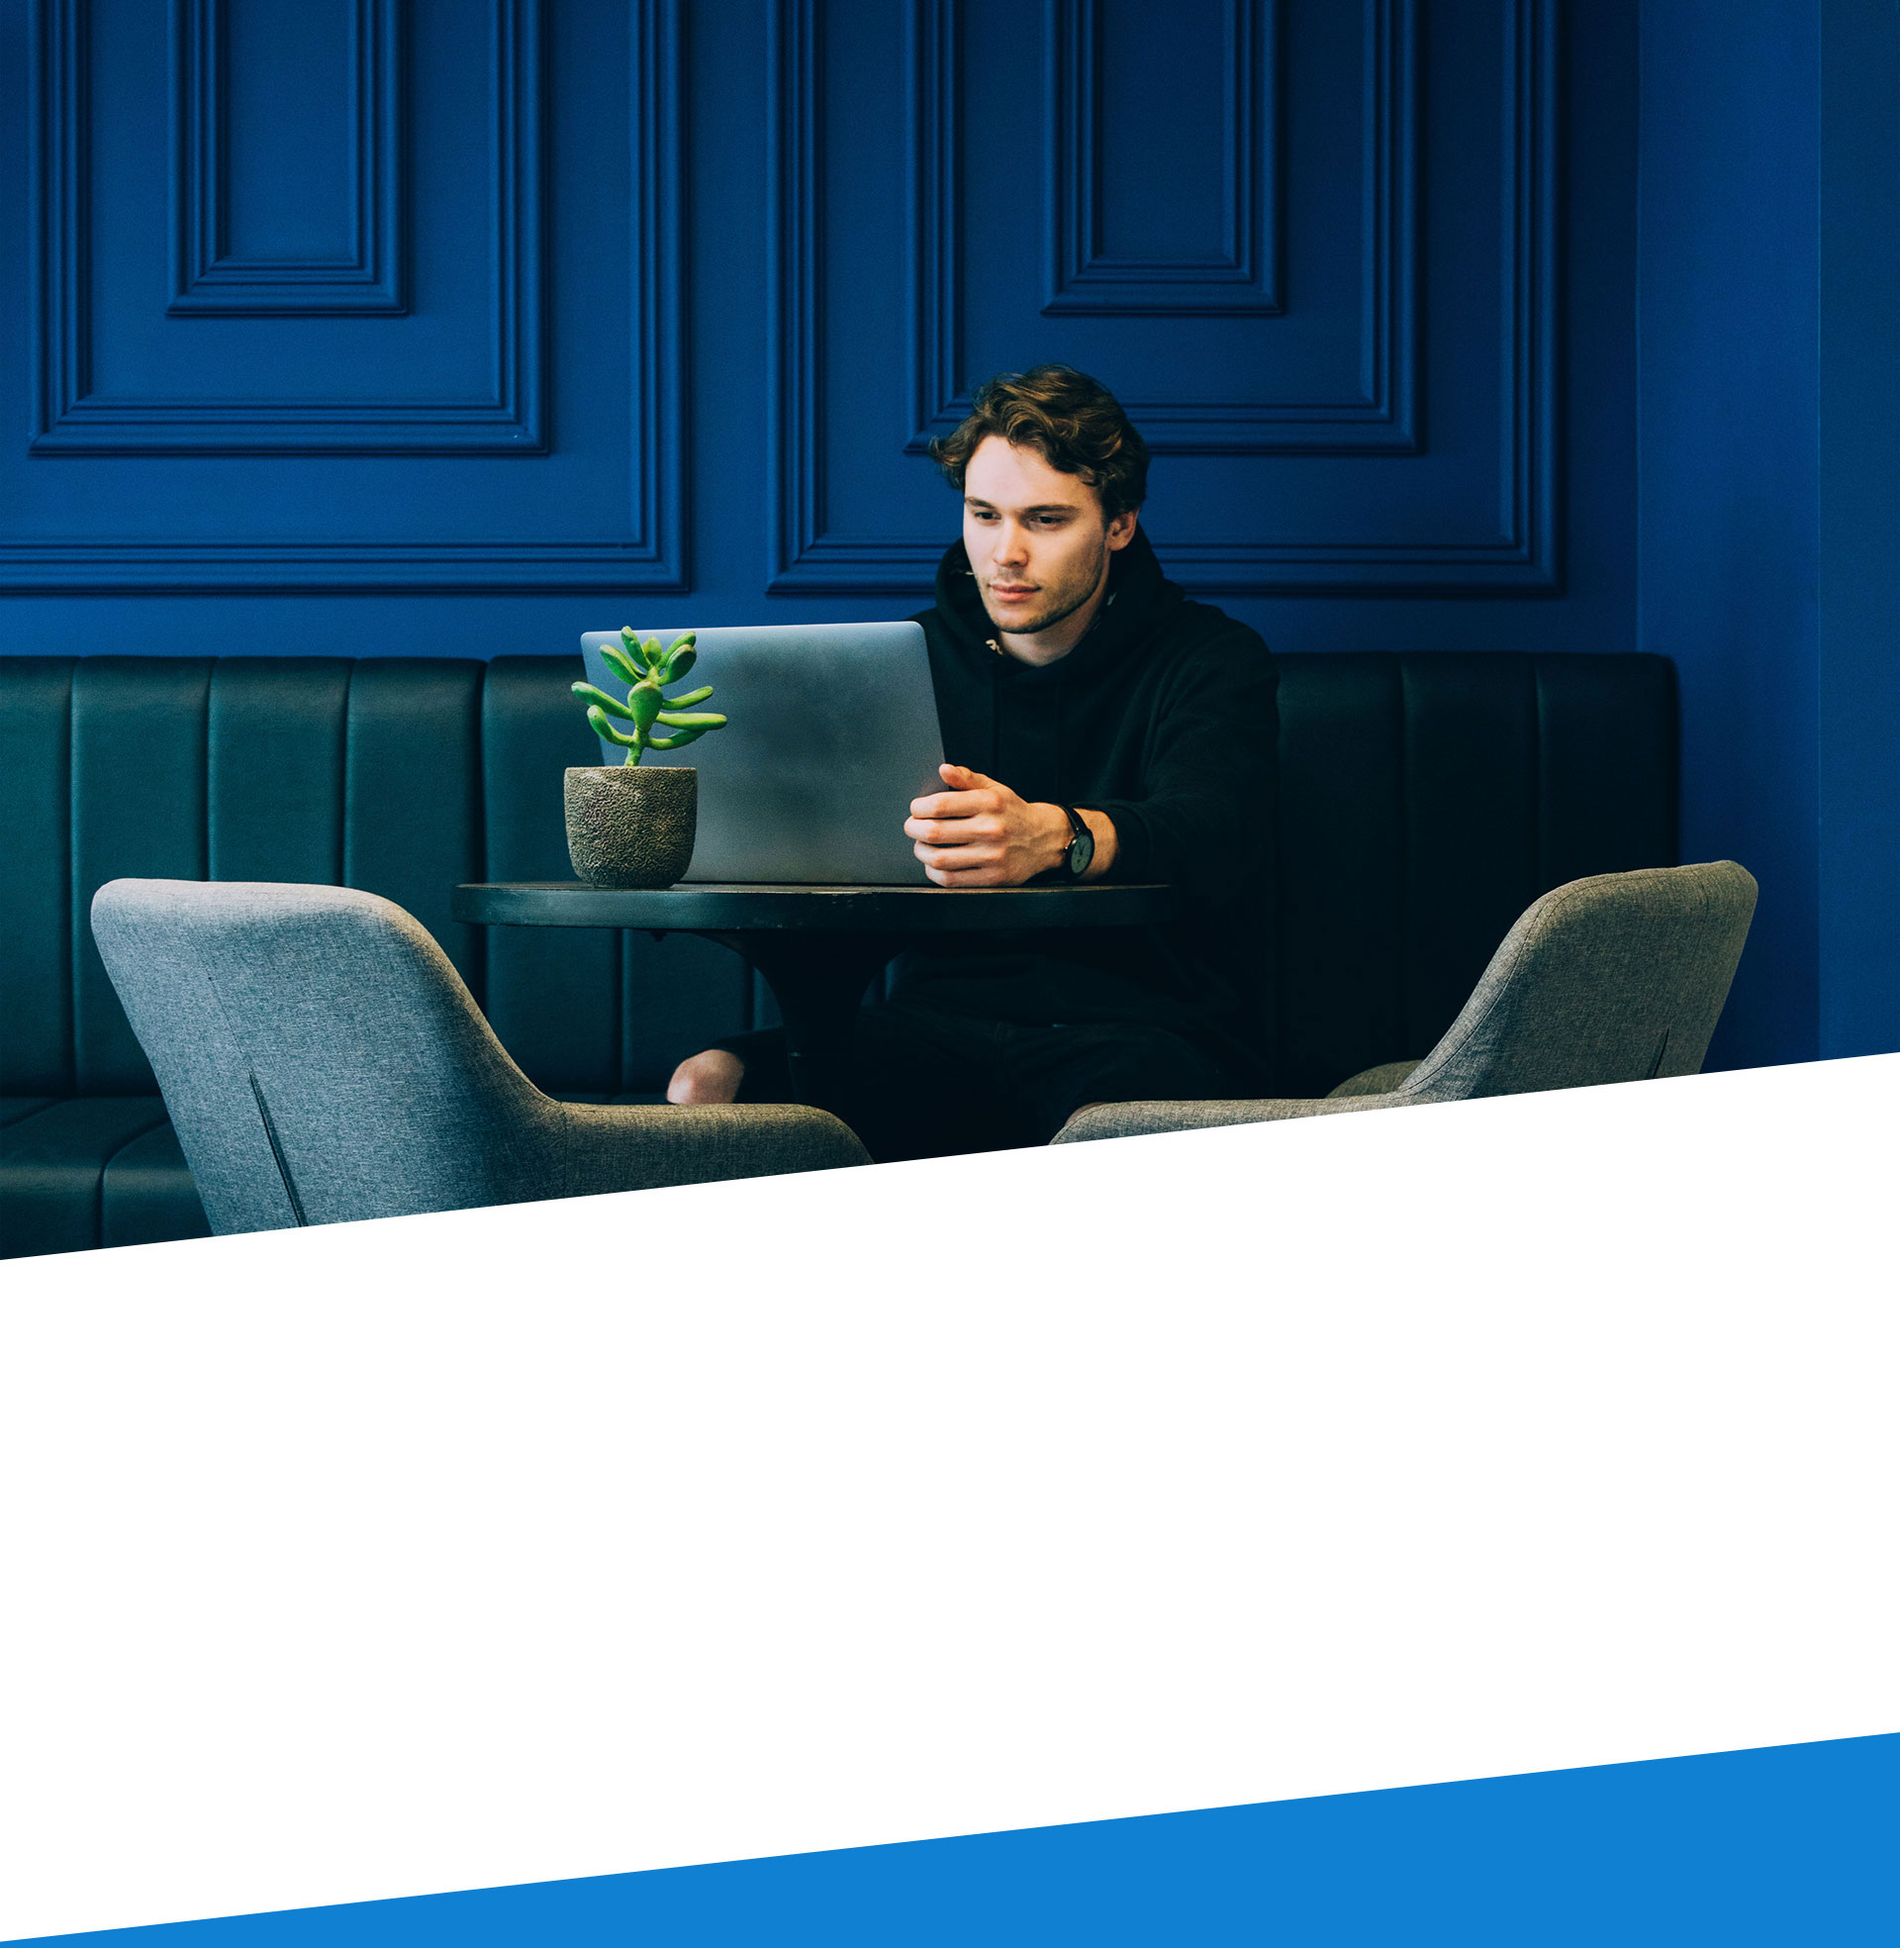
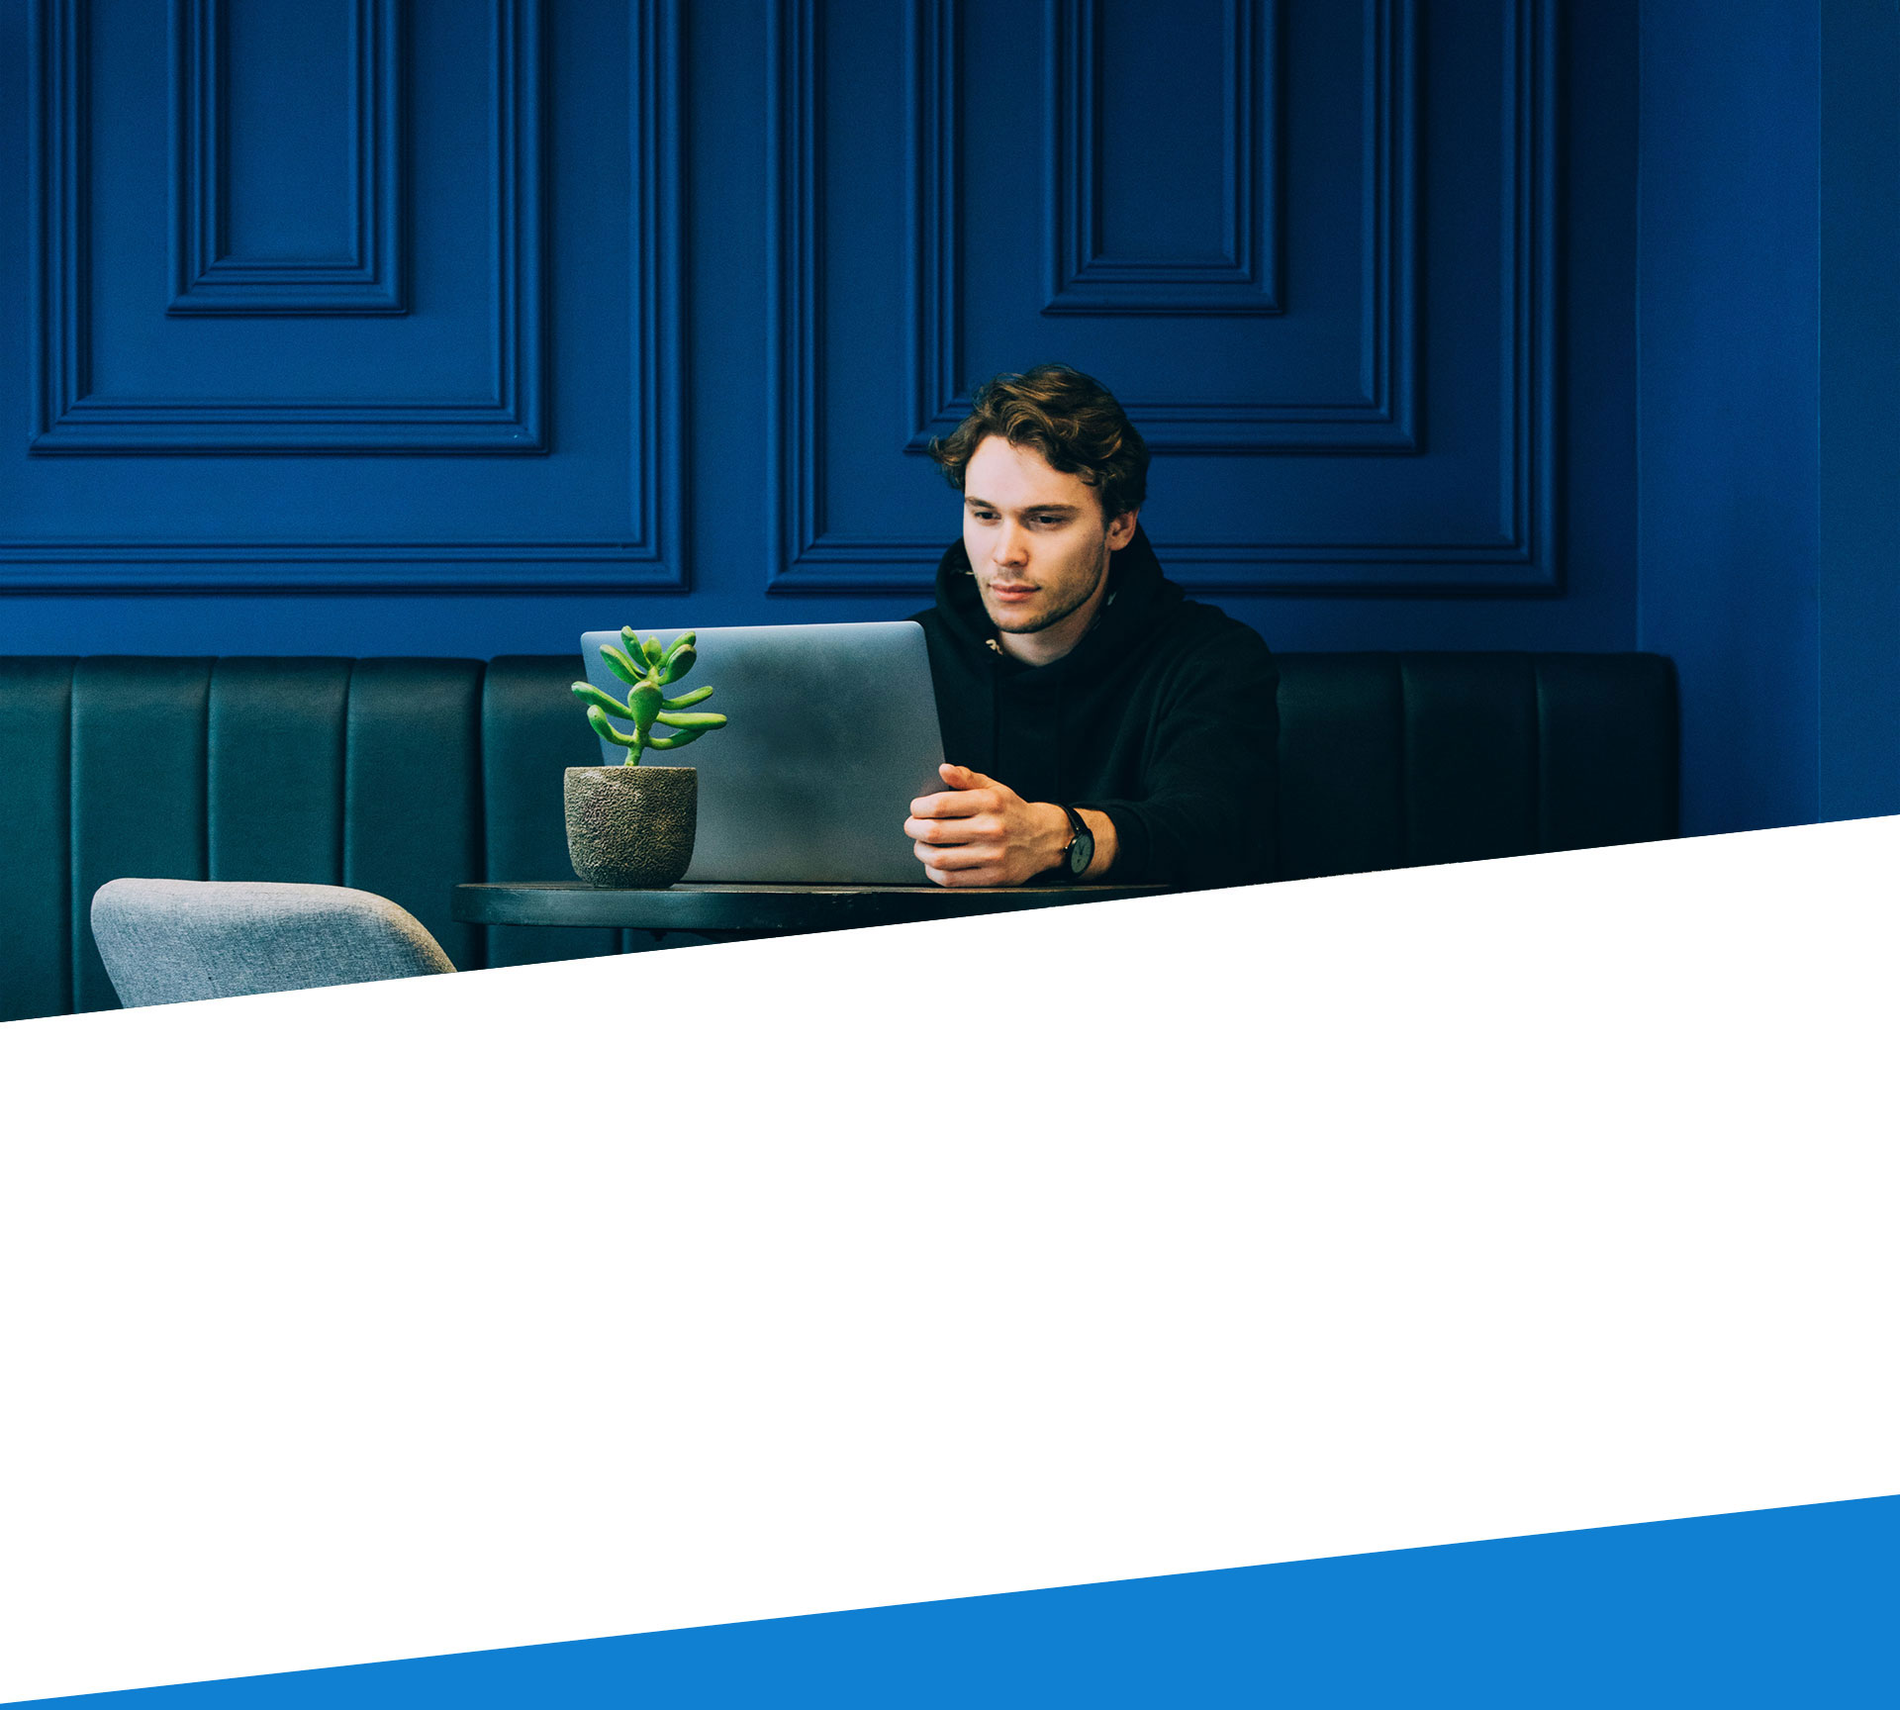
top ed

Changed region(s): [[0.0, 0.125, 1.0, 0.6562], [0.25, 0.875, 1.0, 0.9688], [0.125, 0.9688, 0.25, 1.0]]

diff --git a/xgwl/css/hqs.css b/xgwl/css/hqs.css
@@ -1,6 +1,6 @@
-/*å¹¿å‘Šéƒ¨ä»½*/
-.toped{background-image:url("../img/hqs/bg1.jpg");padding:0 0 100px 0;height:2222px;background-size:cover;background-position:center;color:#000;}
-.edinfo{color:#fff;text-align:center;font-size:20px;padding-top:220px;line-height:180%;}
+/*toped*/
+.toped{background-image:url("../img/hqs/bg1.jpg");padding:0 0 100px 0;height:1700px;background-size:cover;background-position:center;color:#000;}
+.edinfo{color:#fff;text-align:center;font-size:20px;padding-top: 220px;line-height:180%;}
 .edinfo .atit{font-size:30px;color:#fff;text-align:center;display:block;margin-bottom:40px;}
 .edinfo .btit{font-size:60px;color:#fff;text-align:center;display:block;margin-bottom:55px;}
 .edinfo .ctit{font-size:30px;color:#fff;text-align:center;padding:5px 12px;border-radius:30px;margin-top:25px;margin-bottom:20px;background-color:rgba(255,255,255,0.3);}
@@ -11,8 +11,8 @@
 .part1{padding:0 0 100px 0;background-color:#fff;}
 .part1 a{color:#333;line-height:25px;text-align:center;margin-top:100px;}
 .part1 a:hover{color:#39a1ff;}
-.toped .p1-1{margin-top:50px;position:relative;}
-.toped .p1-1 img{position:absolute;top:150px;left:50%;width:90%;margin-left:-45%;}
+.toped .p1-1{margin-top: -150px;position:relative;}
+.toped .p1-1 img{position:absolute;top: 0px;left:50%;width:90%;margin-left:-45%;}
 
 .edbutton{text-align:center;padding-top: 210px;padding-bottom:200px;}
 
@@ -66,12 +66,15 @@
 .part8 .text{position:absolute;right:0;text-align:right;bottom:0px;}
 @media (max-width:768px){
     /*body{padding-top:70px;}*/
-    .edinfo .atit{font-size:1.1em;}
-    .edinfo .btit{font-size:1.2em;}
-    .edinfo .ctit{font-size:0.6em;}
-    .toped .p1-1{margin-top:380px;text-align: center;}
+    .toped{height:1100px;}
+    .edinfo{color:#fff;text-align:center;font-size:20px;padding-top: 130px;line-height:120%;}    
+    .edinfo .atit{font-size:1.1em;margin-bottom:20px;}
+    .edinfo .btit{font-size:1.2em;margin-bottom:20px;}
+    .edinfo .ctit{font-size:0.6em;margin-bottom:20px;}
+    .edbutton{padding-top:100px;}
+    .toped .p1-1{margin-top:-30px;text-align: center;}
     .toped .p1-1 .tit2{font-size:30px;}
-    .toped .p1-1 .txt{font-size:1em;background:#0172ca;border-radius:5px;padding:20px 15px;width:70%;margin-left:15%;margin-top:15%;line-height:200%;}
+    .toped .p1-1 .txt{font-size:1em;background:#0172ca;border-radius:5px;padding:20px 15px;width:70%;margin-left:15%;margin-top:5%;line-height:200%;}
     .part2 .box{width:100%;}
     .h1{font-size:2em;}
     .h2{font-size:1.5em;}
